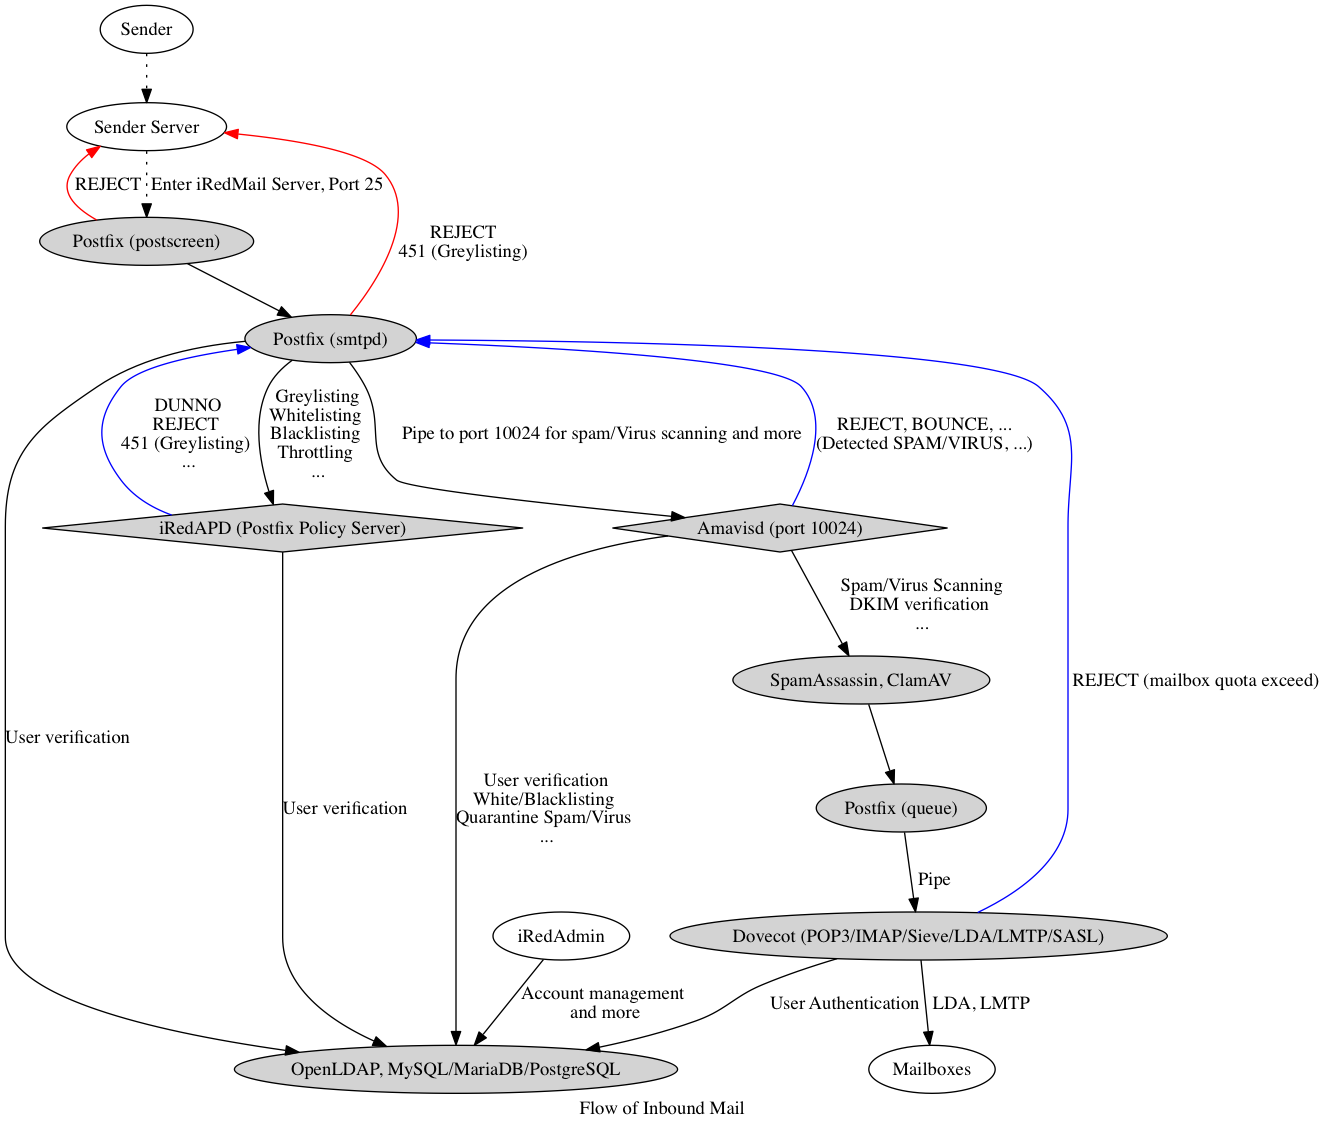
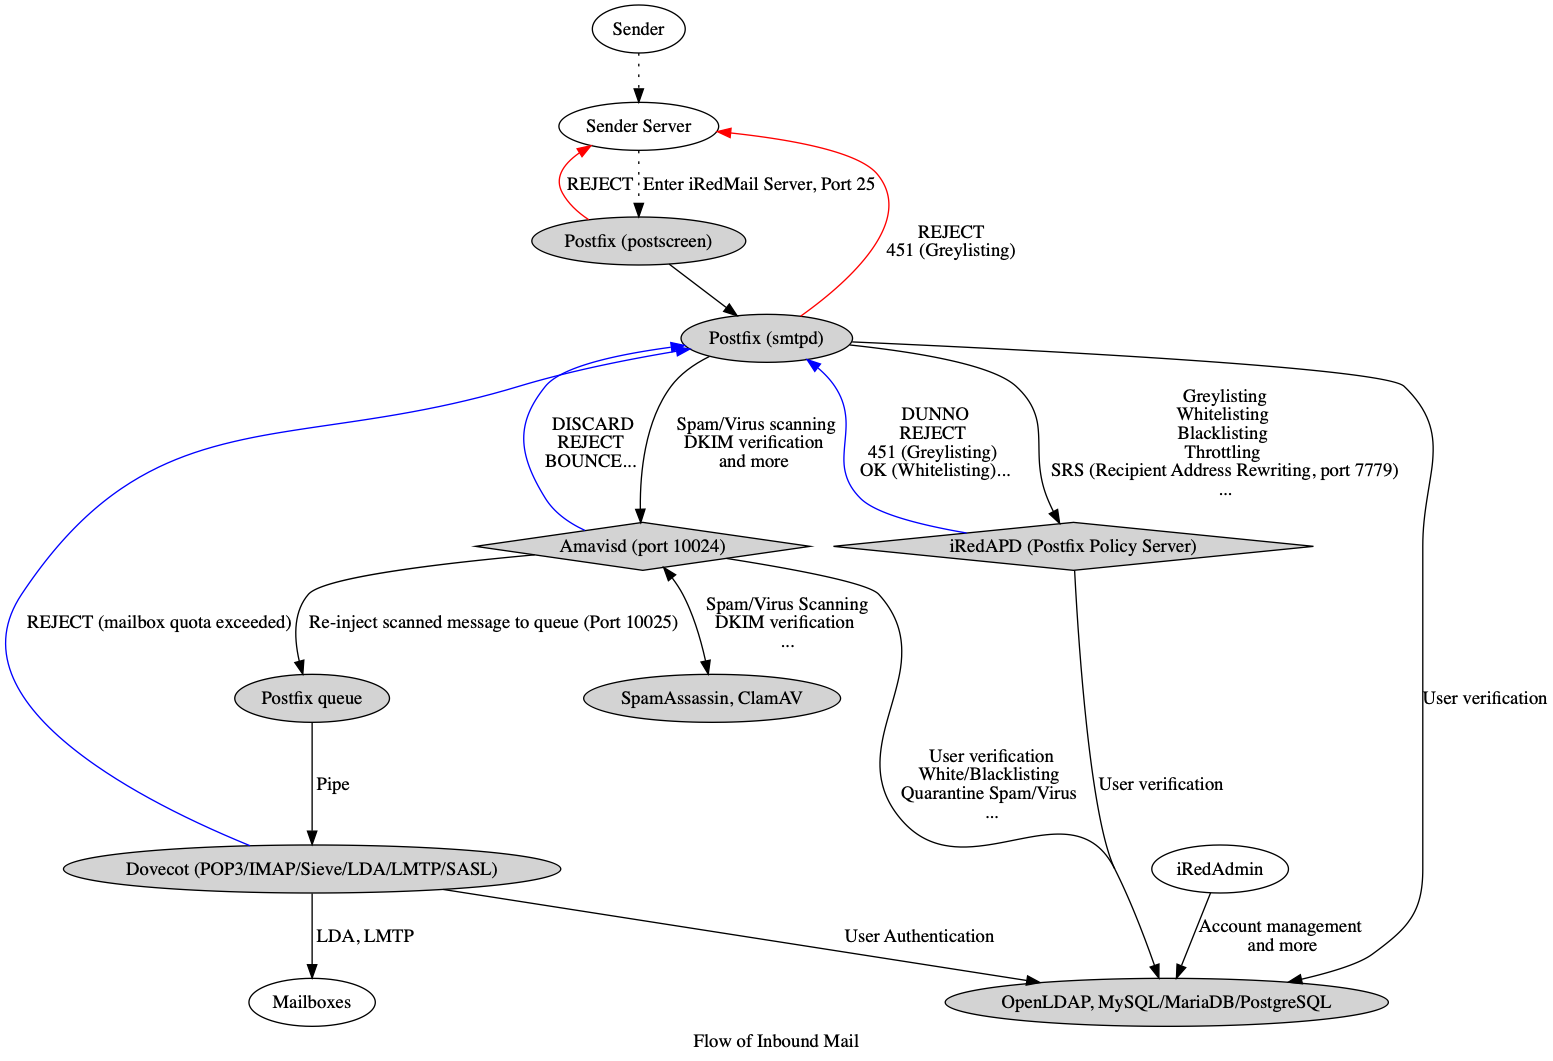
Typo

diff --git a/en_US/overview/0-used.components.md b/en_US/overview/0-used.components.md
@@ -19,7 +19,7 @@ Name | Comment
 [SOGo Groupware](http://sogo.nu) | A groupware which provides calendar (CalDAV), contact (CardDAV), tasks and ActiveSync services
 [Fail2ban](http://www.fail2ban.org) | Scans log files and bans IPs that show the malicious signs
 [Awstats](http://www.awstats.org) | Apache and Postfix log analyzer
-[iRedAPD](https://bitbucket.org/zhb/iredapd/) | A postfix policy server developed by iRedMail team
+[iRedAPD](https://bitbucket.org/zhb/iredapd/) | A simple postfix policy server developed by iRedMail team, with SRS (Sender Rewrite Scheme) support.
 <strike>[Cluebringer](http://www.policyd.org)</strike> | <strike>A postfix policy server. Deprecated since iRedMail-0.9.3.</strike>
 
 ## The Big Picture
